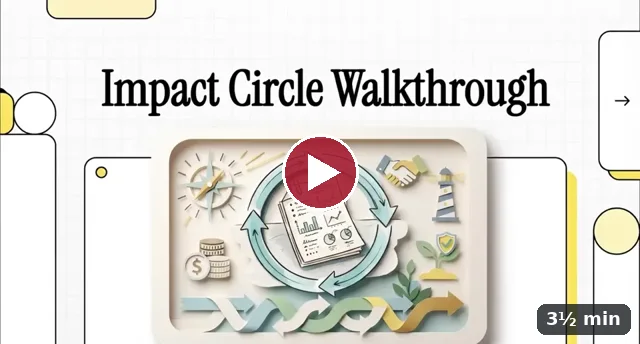
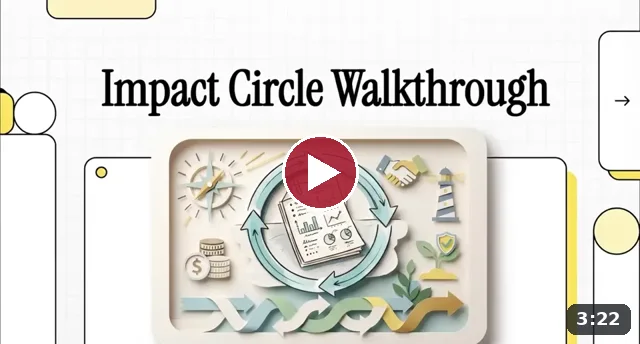
Add files via upload

Changed region(s): [[0.8125, 0.8721, 0.9688, 0.9884]]

diff --git a/career-profile.html b/career-profile.html
@@ -1461,7 +1461,7 @@ a.arch-node:hover{box-shadow:var(--shadow-sm);transform:translateY(-2px);color:v
         <div class="vw-grid">
           <figure class="vw-card">
             <video controls preload="none" playsinline poster="./assets/thumbs/video-hub.webp?v=2" width="1280" height="688" aria-describedby="vw-hub-cap"><source src="./Stewardship_Hub.mp4" type="video/mp4"></video>
-            <figcaption id="vw-hub-cap"><b>Impact Circle · Stewardship Hub walkthrough</b><span>3½ min · The four-layer model, the reporting loop and its Release Gate, the proposed Ph.D. fellowship pilot, and the hub's team rhythm.</span><a href="./impact-circle.html">Open the hub ↗</a></figcaption>
+            <figcaption id="vw-hub-cap"><b>Impact Circle · Stewardship Hub walkthrough</b><span>3:22 min · The four-layer model, the reporting loop and its Release Gate, the proposed Ph.D. fellowship pilot, and the hub's team rhythm.</span><a href="./impact-circle.html">Open the hub ↗</a></figcaption>
           </figure>
           <figure class="vw-card">
             <video controls preload="none" playsinline poster="./assets/thumbs/video-story.webp?v=3" width="1920" height="1080" aria-describedby="vw-story-cap"><source src="./Story.mp4" type="video/mp4"></video>

diff --git a/README.md b/README.md
@@ -23,7 +23,7 @@
 
 <table>
 <tr>
-<td width="50%" valign="top"><a href="https://narissa-pgm.github.io/AAD/Stewardship_Hub.mp4"><img src="assets/video-hub.webp" width="100%" alt="Play: Impact Circle · Stewardship Hub walkthrough, 3½ minutes"></a><br><b>Impact Circle · Stewardship Hub walkthrough</b><br><sub>The four-layer model, the reporting loop and its Release Gate, and the proposed Ph.D. fellowship pilot. <a href="https://narissa-pgm.github.io/AAD/impact-circle.html">Open the hub ↗</a></sub></td>
+<td width="50%" valign="top"><a href="https://narissa-pgm.github.io/AAD/Stewardship_Hub.mp4"><img src="assets/video-hub.webp" width="100%" alt="Play: Impact Circle · Stewardship Hub walkthrough, 3 minutes 22 seconds"></a><br><b>Impact Circle · Stewardship Hub walkthrough</b><br><sub>The four-layer model, the reporting loop and its Release Gate, and the proposed Ph.D. fellowship pilot. <a href="https://narissa-pgm.github.io/AAD/impact-circle.html">Open the hub ↗</a></sub></td>
 <td width="50%" valign="top"><a href="https://narissa-pgm.github.io/AAD/Story.mp4"><img src="assets/video-story.webp" width="100%" alt="Play: donor thank-you story, sample, 4 minutes"></a><br><b>Donor thank-you story · sample</b><br><sub>A stewardship video for an endowed Ph.D. fellowship, with the email that delivers it. Donor, fund and student are fictional. <a href="https://narissa-pgm.github.io/AAD/donor-profile.html#story-email">See the email and the Release Gate review ↗</a></sub></td>
 </tr>
 </table>
